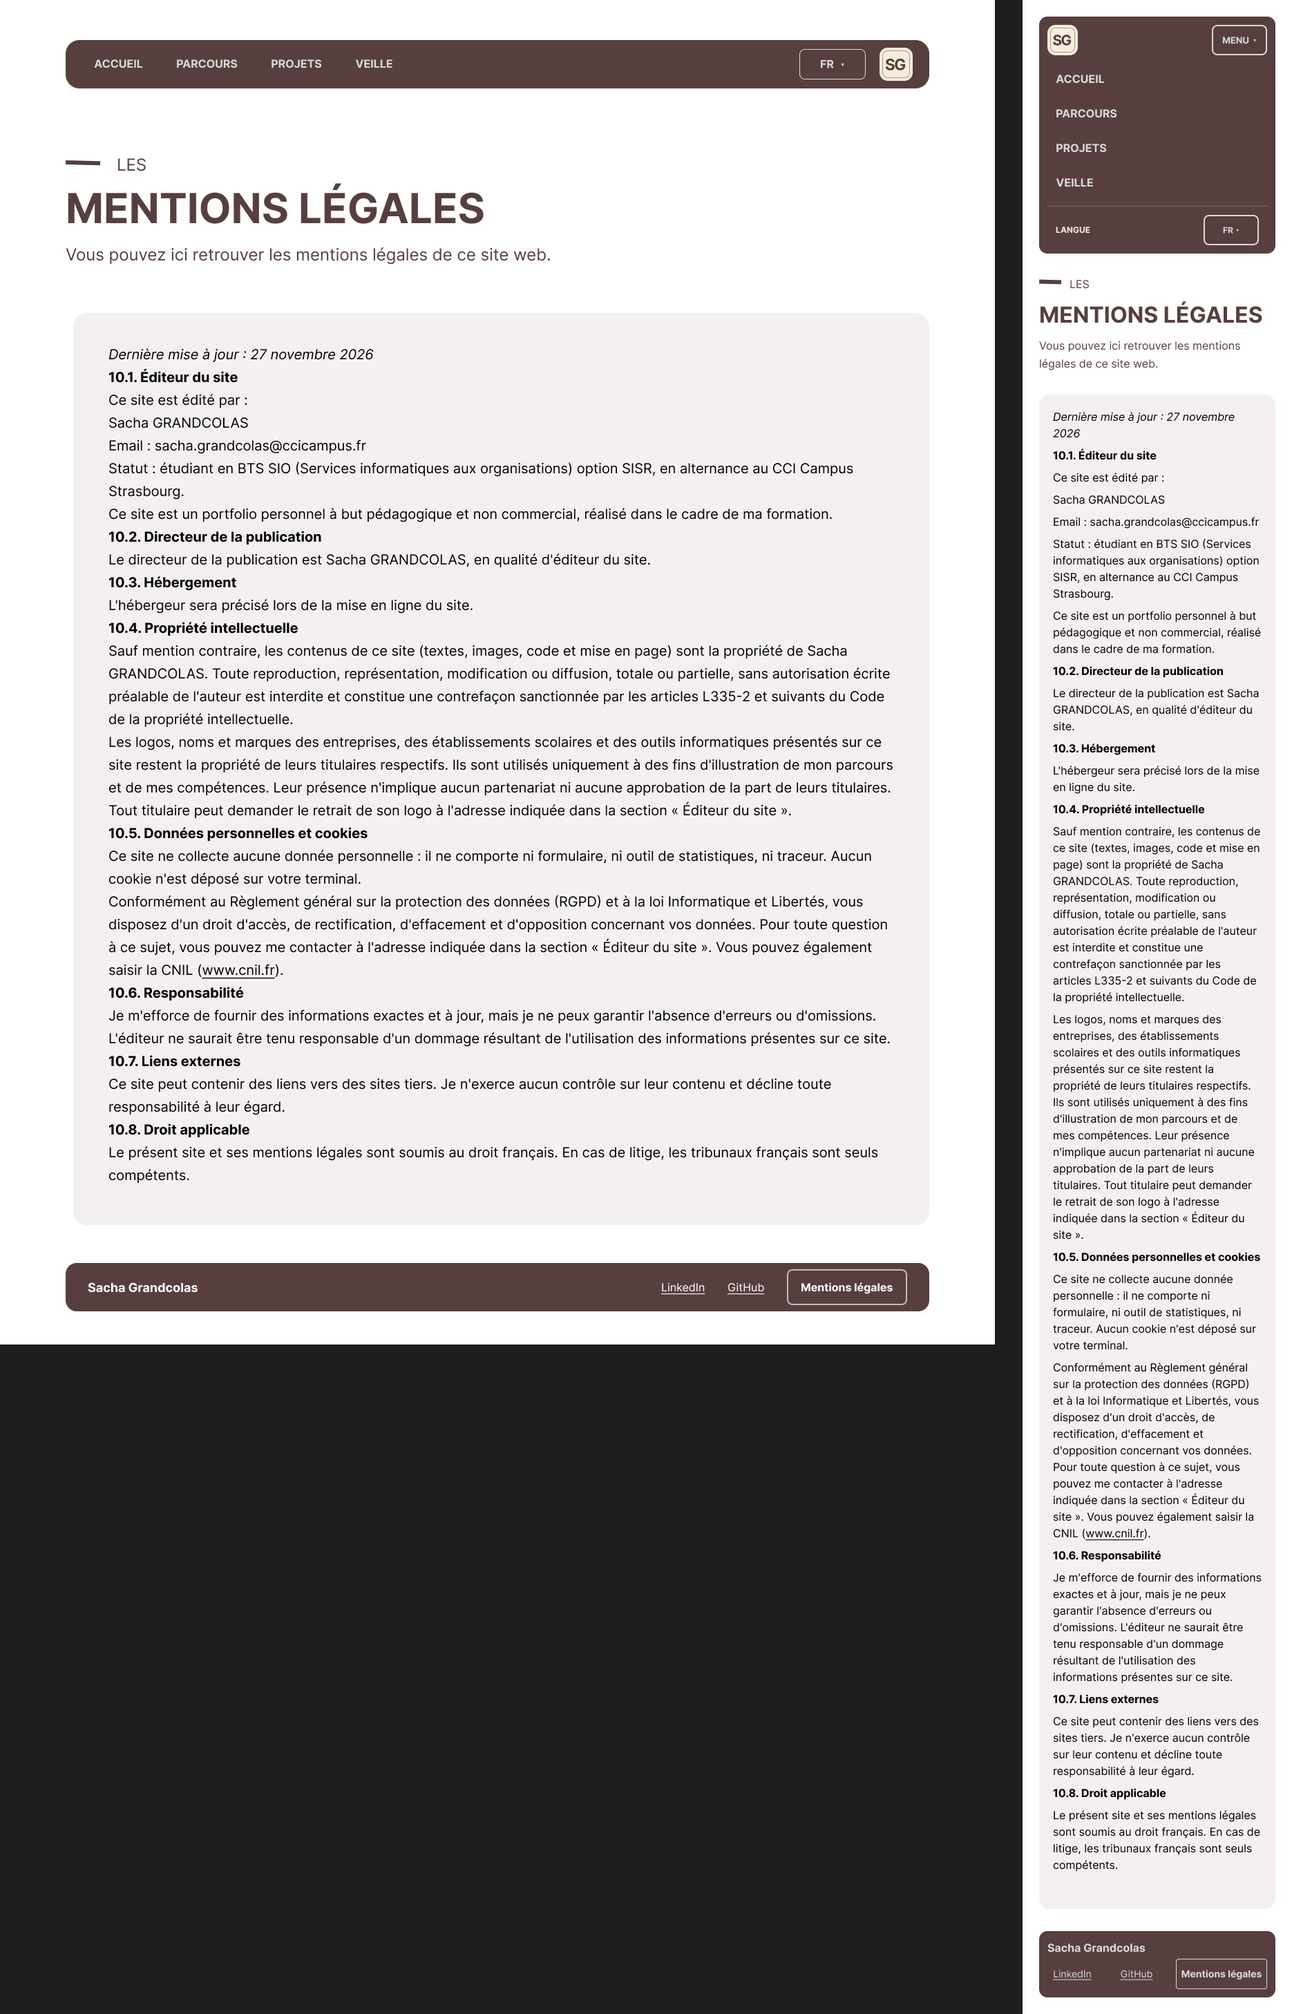
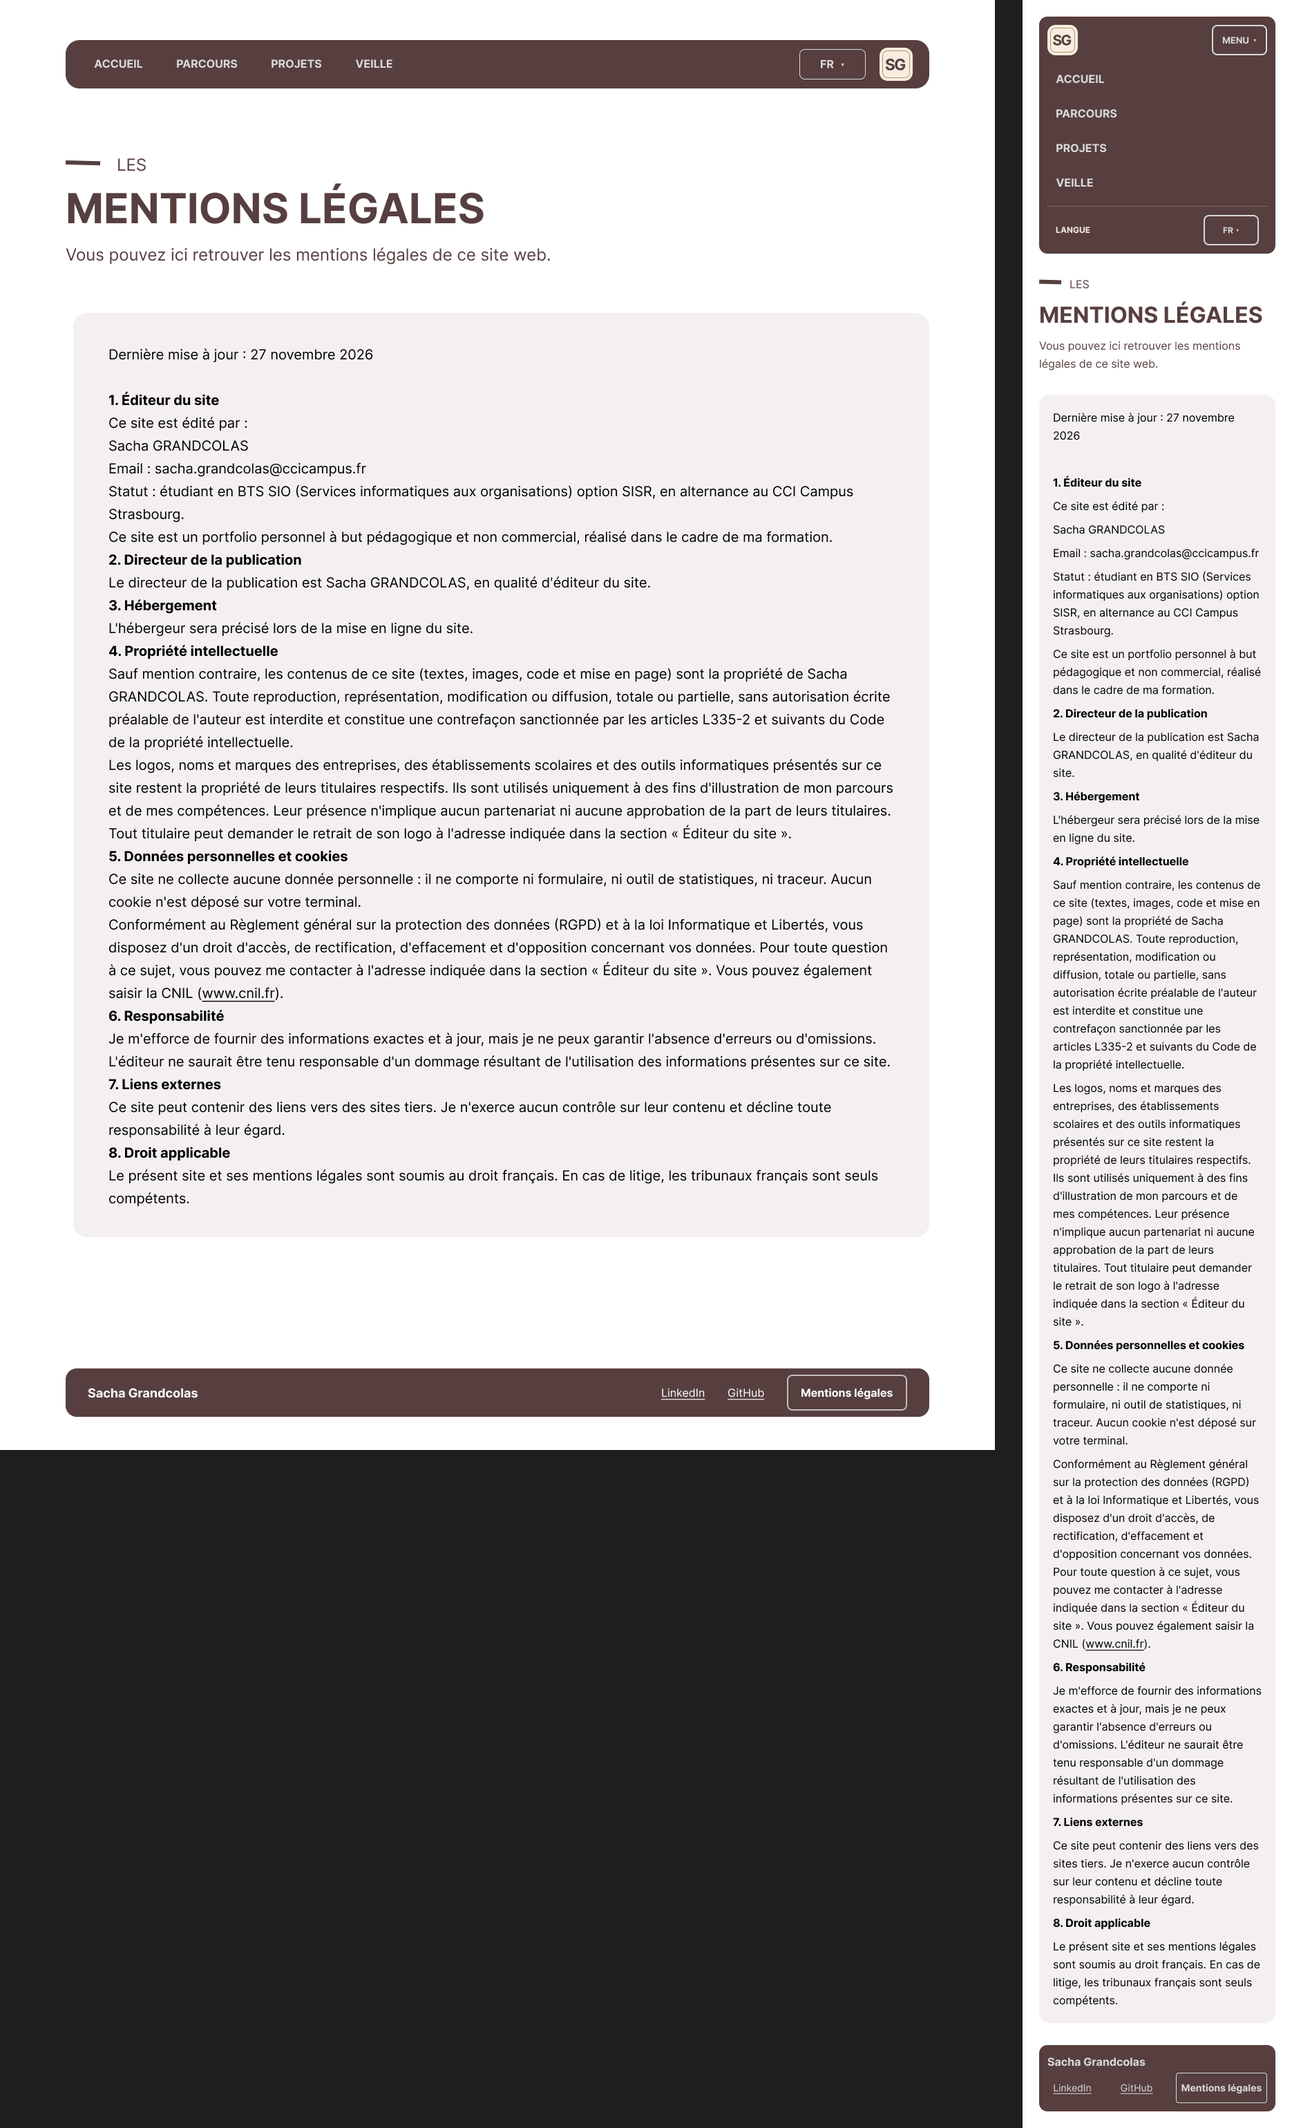
Dernier commit, modification de la numérotation des articles des mentions légales, changement d'une image dans la charte, finalisation des documents et corrections d'erreurs

diff --git a/documentation/charte.md b/documentation/charte.md
@@ -11,9 +11,13 @@ footer: ${title} - ${author} - Page ${pageNo} / ${totalPages}
 
 **Date de création** : 27/10/2026 - S.GRANDCOLAS
 **Date de modification** : 27/11/2026 - S.GRANDCOLAS
+**Version** : 1.0
+
 **Sommaire :**
 
 > [TOC]
+
+<div style="page-break-after:always"></div>
 
 <div style="page-break-after:always"></div>
 
@@ -23,11 +27,15 @@ Ce portfolio est réalisé dans le cadre de l'atelier de professionnalisation 1 
 
 
 
+<div style="page-break-after:always"></div>
+
 ## 2. Identité visuelle
 
 J'ai choisi un design épuré avec des couleurs sobres, notamment le brun, le blanc et le gris clair. Le brun sert de couleur principale, tandis que le blanc et le gris clair permettent d'aérer les pages et de séparer les différents contenus. Les titres sont mis en évidence en gras et en majuscules pour faciliter la lecture. La même présentation est reprise sur toutes les pages afin de garder un site cohérent.
 
 
+
+<div style="page-break-after:always"></div>
 
 ## 3. Éléments graphiques
 
@@ -49,8 +57,6 @@ Lorsque plusieurs cases sont regroupées dans un même bloc, comme sur la page P
 
 Les images qui conservent un fond sont affichées avec des coins arrondis de 20 px tandis que les autres images sont affichées sans fond.
 
-La couleur crème #F6EDE0 est utilisée pour le monogramme, le libellé « Langue » et la sélection de la langue.
-
 
 
 Les contrastes entre les textes et les fonds respectent le minimum d'accessibilité de 4,5:1.
@@ -67,7 +73,7 @@ Les contrastes entre les textes et les fonds respectent le minimum d'accessibili
 
 ### 3.2. Typographie
 
-J'utilise la typographie Inter. J'alterne entre l'épaisseur « Bold » pour les titres et les éléments importants et « Regular » pour les paragraphes et les textes secondaires. Les titres sont affichés en gras et en majuscules afin de les faire ressortir.
+J'utilise la typographie Inter, j'alterne entre l'épaisseur « Bold » pour les titres et les éléments importants et « Regular » pour les paragraphes et les textes secondaires. Les titres sont affichés en gras et en majuscules afin de les faire ressortir.
 
 | Élément             | Épaisseur | Taille ordinateur | Taille mobile |
 | ------------------- | --------- | ----------------- | ------------- |
@@ -92,6 +98,7 @@ J'utilise principalement des logos pour illustrer certaines informations, notamm
 | Pied de page                | Rectangulaire                          | 20 px          | Aucune  |
 | Bouton « Mentions légales » | Rectangulaire                          | 8 px           | 2 px    |
 | Bouton « Voir plus »        | Rectangulaire                          | 8 px           | 2 px    |
+| Bouton "Menu"               | Rectangulaire                          | 8 px           | 2 px    |
 | Images avec fond            | Rectangulaire                          | 20 px          | Aucune  |
 
 Sur ordinateur, les liens de navigation sont disposés horizontalement. Sur mobile, ils sont regroupés dans un menu déroulant accessible avec le bouton « Menu ».
@@ -100,24 +107,25 @@ Chaque image possède un texte alternatif.
 
 **Logo du portfolio**
 
-Le logo du portfolio reprend mes initiales « SG ». Il est affiché dans la barre de navigation et permet d'identifier mon site.
+Le logo du portfolio reprend mes initiales « SG », il est affiché dans la barre de navigation et il reprend les couleurs du site web.
 
 <img src="medias/logo.png" alt="Logo du portfolio" title="Logo du portfolio" width="150"/>
 
 **Logos utilisés**
 
-Ces logos illustrent mes compétences et mon parcours. Ils permettent d'identifier rapidement les outils informatiques et les établissements présentés.
+Ces logos illustrent mes compétences et mon parcours, ils permettent d'identifier rapidement les outils informatiques et les établissements présentés.
 
-<img src="medias/ubuntu-logo.png" alt="Logo Ubuntu" title="Ubuntu" width="150"/>
-<img src="medias/wireshark-logo.png" alt="Logo Wireshark" title="Wireshark" width="80"/>
-<img src="medias/HTML-CSS-logo.png" alt="Logos HTML et CSS" title="HTML et CSS" width="150"/>
-<img src="medias/cci.png" alt="Logo du CCI Campus" title="CCI Campus" width="150"/>
+<img src="medias/ubuntu-logo.png" alt="Logo Ubuntu" title="Ubuntu" width="100"/> <img src="medias/wireshark-logo.png" alt="Logo Wireshark" title="Wireshark" width="100"/> <img src="medias/HTML-CSS-logo.png" alt="Logos HTML et CSS" title="HTML et CSS" width="100"/> <img src="medias/cci.png" alt="Logo du CCI Campus" title="CCI Campus" width="100"/> <img src="medias/mangin.png" alt="Logo du lycée Mangin" title="Lycée Mangin" width="100"/> <img src="medias/erckmann.png" alt="Logo du collège Erckmann-Chatrian" title="Collège Erckmann-Chatrian" width="100"/> <img src="medias/lingenheld.png" alt="Logo de l'entreprise Lingenheld" title="Lingenheld" width="100"/> <img src="medias/ferco.png" alt="Logo de l'entreprise Ferco" title="Ferco" width="100"/> <img src="medias/fm.png" alt="Logo de l'entreprise FM Logistic" title="FM Logistic" width="100"/>
 
 **Boutons**
 
-Les boutons ont des coins arrondis et un style commun. Ils permettent de naviguer dans le site, de changer de langue, d'afficher le détail d'un projet et d'accéder aux mentions légales.
+Les boutons ont des coins arrondis et un style commun, ils permettent de naviguer dans le site, de changer de langue, d'afficher le détail d'un projet et d'accéder aux mentions légales.
 
 <img src="medias/boutons.png" alt="Boutons du site" title="Boutons" width="400"/>
+
+
+
+<div style="page-break-after:always"></div>
 
 ## 4. Maquettes responsive
 
@@ -145,14 +153,16 @@ Les maquettes ont été réalisées avec Figma : https://www.figma.com/design/AX
 <img src="medias/atelier-pro-4.png" alt="Maquette de la page Projet AP4" title="Projet AP4" width="500"/>
 
 ### 4.8. Veille technologique
-<img src="medias/veille.png" alt="Maquette de la page Veille technologique" title="Veille technologique" width="500"/>
+<img src="medias/veille.png" alt="Maquette de la page Veille technologique" title="Veille technologique" width="420"/>
 
 ### 4.9. Mentions légales
 <img src="medias/mentions-legales.png" alt="Maquette de la page Mentions légales" title="Mentions légales" width="500"/>
 
+<div style="page-break-after:always"></div>
+
 ## 5. Navigation du site
 
-Le menu de navigation est présent sur toutes les pages du site. Il permet d'accéder aux pages Accueil, Parcours, Projets et Veille technologique. Un sélecteur permet de choisir entre la version française et la version anglaise du site.
+Le menu de navigation est présent sur toutes les pages du site, il permet d'accéder aux pages Accueil, Parcours, Projets et Veille technologique, un sélecteur permet également de choisir entre la version française et la version anglaise du site.
 
 Le pied de page contient mon nom ainsi que des liens vers LinkedIn, GitHub et les mentions légales.
 

diff --git a/documentation/technique.md b/documentation/technique.md
@@ -12,6 +12,8 @@ footer: ${title} - ${author} - Page ${pageNo} / ${totalPages}
 
 **Date de création** : 16/10/2026 - S.GRANDCOLAS
 **Date de modification** : 27/11/2026 - S.GRANDCOLAS
+**Version** : 1.0
+
 **Sommaire :**
 
 > [TOC]
@@ -20,15 +22,15 @@ footer: ${title} - ${author} - Page ${pageNo} / ${totalPages}
 
 ## 1. Les outils
 
-Afin de pouvoir travailler sur ce projet j'ai utilisé plusieurs outils : 
+Afin de pouvoir travailler sur ce projet, j'ai utilisé plusieurs outils : 
 
-**WSL** : C'est une sorte de "machine virtuelle" linux connecté à Windows et qui a pour but de pouvoir utiliser l'environnement linux directement via Windows, j'utilise Ubuntu 26.04 LTS comme OS, WSL est en version 3.0.3
+**WSL** : C'est une sorte de "machine virtuelle" Linux connectée à Windows et qui a pour but de pouvoir utiliser l'environnement Linux directement via Windows, j'utilise Ubuntu 26.04 LTS comme OS, WSL est en version 3.0.3
 
 **Windows** : C'est le système d'exploitation principal que j'utilise, plus exactement j'utilise la version 26H2
 
 **Visual Studio Code** : C'est l'éditeur de code que j'utilise afin de pouvoir coder, la version est en 1.146.0
 
-**Typora** : C'est l'éditeur Markdown qui me permet de rédiger toute la documentation.
+**Typora** : C'est l'éditeur Markdown qui me permet de rédiger toute la documentation, celui-ci est en version 1.14.15
 
 **Apache** : C'est un logiciel qui sert à héberger et diffuser des sites web, j'utilise la version 2.4.66 de Apache2, je l'ai installé dans WSL.
 
@@ -40,15 +42,19 @@ Afin de pouvoir travailler sur ce projet j'ai utilisé plusieurs outils :
 
 **Figma** : C'est un outil qui permet de structurer des pages web en faisant des maquettes, je l'utilise pour créer les différentes pages de mon portfolio, j'utilise la version web.
 
-**SSH** : C'est un protocole réseau sécurisé qui permet de se connecter à distance à un appareil (ordinateur ou serveur) et d'y exécuter des commandes via une connexion chiffrée, j'utilise ce protocole pour envoyer les commit sur github.
+**SSH** : C'est un protocole réseau sécurisé qui permet de se connecter à distance à un appareil (ordinateur ou serveur) et d'y exécuter des commandes via une connexion chiffrée, j'utilise ce protocole pour envoyer les commits sur GitHub.
 
 
+
+**Justification des choix** : WSL est plus léger qu'une machine virtuelle et intégré à Windows. Visual Studio Code est gratuit et compatible avec WSL. Typora permet de voir directement le rendu Markdown et de l'exporter en PDF. Apache est gratuit et connu. Brave est un navigateur basé sur Chromium, il est donc compatible avec la majorité des sites web. Git et GitHub conservent l'historique et une copie en ligne du projet. Figma permet de créer les maquettes dans le navigateur. SSH assure une connexion chiffrée à GitHub.
+
+<div style="page-break-after:always"></div>
 
 ## 2. Les langages et technologies
 
-Afin de développer les différentes page du portfolio je vais devoir utiliser plusieurs langages, tout d'abord le HTML, c'est ce qui qui permet de structurer le contenu des pages web, j'utilise HTML5. Une fois la structure des pages fait, il faut mettre en forme celles-ci, c'est pourquoi j'utilise CSS, plus exactement CSS3, je l'utilise pour gérer les couleurs, les polices, la taille des images ainsi que la disposition des différents éléments. Enfin, pour ajouter des animations et rajouter de l'interactivité le JavaScript est très utile.
+Afin de développer les différentes pages du portfolio je vais devoir utiliser plusieurs langages, tout d'abord le HTML, c'est ce qui permet de structurer le contenu des pages web, j'utilise HTML5. Une fois la structure des pages faite, il faut mettre en forme celles-ci, c'est pourquoi j'utilise CSS, plus exactement CSS3, je l'utilise pour gérer les couleurs, les polices, la taille des images ainsi que la disposition des différents éléments. Enfin, pour ajouter des animations et rajouter de l'interactivité le JavaScript est très utile.
 
-
+<div style="page-break-after:always"></div>
 
 ## 3. Architecture de l'environnement
 
@@ -96,7 +102,7 @@ Cette arborescence se trouve dans WSL à l'emplacement suivant : /var/www/html/p
 
 ### 3.3. Gestion et suivi du projet
 
-Pour suivre l'évolution du portfolio j'utilise Git et GitHub
+Pour suivre l'évolution du portfolio j'utilise Git et GitHub.
 
 Git me permet d'enregistrer les différentes modifications apportées au projet grâce aux commits. GitHub me permet de conserver une copie du projet en ligne et de retrouver mes modifications.
 
@@ -106,6 +112,10 @@ Voici les commandes utilisées pour le suivi de version :
 git add .                           # sélectionne les fichiers modifiés
 git commit -m "Message"				# enregistre les modifications avec un message
 git push                            # envoie les commits sur GitHub
+```
+
+```bash
+git clone git@github.com:SachaGrdc/CCI-SIO26-Portfolio-GRANDCOLASSacha.git   # récupère le projet depuis GitHub
 ```
 
 
@@ -121,18 +131,18 @@ ssh-keygen -t ed25519                # ajouter ensuite la clé publique sur GitH
 ssh -T git@github.com                # test de la connexion
 ```
 
+Il n'est pas nécessaire d'installer Git car il est installé par défaut sur Ubuntu 26.04.
+
 
 
 ### 3.5. Droits d'accès
 
 ```bash
-sudo chown -R root:adm /var/www
-sudo chmod 2775 /var/www
-sudo chmod 2775 /var/www/html
-sudo chmod 664 /var/www/html/*
+sudo chown -R root:adm /var/www       # propriétaire root, groupe adm
+sudo chmod 2775 /var/www              # écriture pour root et adm, groupe hérité
+sudo chmod 2775 /var/www/html         # mêmes droits pour le dossier web
+sudo chmod 664 /var/www/html/*        # écriture pour root et adm, lecture pour les autres
 ```
-
-Les fichiers dans `/var/www` appartiennent à `root` et au groupe `adm`, dont mon utilisateur fait partie. Les dossiers `/var/www` et `/var/www/html` sont modifiables par `root` et le groupe `adm`, tandis qu'Apache peut seulement les lire. Le 2 de `2775` permet aux nouveaux fichiers de garder le groupe `adm`.
 
 
 

diff --git a/documentation/contenu.md b/documentation/contenu.md
@@ -9,6 +9,8 @@ footer: ${title} - ${author} - Page ${pageNo} / ${totalPages}
 # Contenu
 **Date de création** : 16/10/2026 - S.GRANDCOLAS
 **Date de modification** : 27/11/2026 - S.GRANDCOLAS
+**Version** : 1.0
+
 **Sommaire :**
 
 > [TOC]
@@ -188,11 +190,11 @@ Vous pouvez ici retrouver mon atelier de professionnalisation numéro 3.
 
 Ce projet est à venir.
 
-Illustration : à venir
-Compétences du référentiel mobilisées : à venir
-Documents de présentation : à venir
-Documentation technique : à venir
-Documentation utilisateur : à venir
+- Illustration : à venir
+- Compétences du référentiel mobilisées : à venir
+- Documents de présentation : à venir
+- Documentation technique : à venir
+- Documentation utilisateur : à venir
 
 <div style="page-break-after:always"></div>
 
@@ -206,11 +208,11 @@ Vous pouvez ici retrouver mon atelier de professionnalisation numéro 4.
 
 Ce projet est à venir.
 
-Illustration : à venir
-Compétences du référentiel mobilisées : à venir
-Documents de présentation : à venir
-Documentation technique : à venir
-Documentation utilisateur : à venir
+- Illustration : à venir
+- Compétences du référentiel mobilisées : à venir
+- Documents de présentation : à venir
+- Documentation technique : à venir
+- Documentation utilisateur : à venir
 
 <div style="page-break-after:always"></div>
 
@@ -282,7 +284,7 @@ Vous pouvez ici retrouver les mentions légales de ce site web.
 
 *Dernière mise à jour : 27 novembre 2026*
 
-### 10.1. Éditeur du site
+### 1. Éditeur du site
 
 Ce site est édité par :
 
@@ -294,36 +296,34 @@ Statut : étudiant en BTS SIO (Services informatiques aux organisations) option 
 
 Ce site est un portfolio personnel à but pédagogique et non commercial, réalisé dans le cadre de ma formation.
 
-### 10.2. Directeur de la publication
+### 2. Directeur de la publication
 
 Le directeur de la publication est Sacha GRANDCOLAS, en qualité d'éditeur du site.
 
-### 10.3. Hébergement
+### 3. Hébergement
 
 L'hébergeur sera précisé lors de la mise en ligne du site.
 
-### 10.4. Propriété intellectuelle
+### 4. Propriété intellectuelle
 
 Sauf mention contraire, les contenus de ce site (textes, images, code et mise en page) sont la propriété de Sacha GRANDCOLAS. Toute reproduction, représentation, modification ou diffusion, totale ou partielle, sans autorisation écrite préalable de l'auteur est interdite et constitue une contrefaçon sanctionnée par les articles L335-2 et suivants du Code de la propriété intellectuelle.
 
 Les logos, noms et marques des entreprises, des établissements scolaires et des outils informatiques présentés sur ce site restent la propriété de leurs titulaires respectifs. Ils sont utilisés uniquement à des fins d'illustration de mon parcours et de mes compétences. Leur présence n'implique aucun partenariat ni aucune approbation de la part de leurs titulaires. Tout titulaire peut demander le retrait de son logo à l'adresse indiquée dans la section « Éditeur du site ».
 
-### 10.5. Données personnelles et cookies
+### 5. Données personnelles et cookies
 
 Ce site ne collecte aucune donnée personnelle : il ne comporte ni formulaire, ni outil de statistiques, ni traceur. Aucun cookie n'est déposé sur votre terminal.
 
 Conformément au Règlement général sur la protection des données (RGPD) et à la loi Informatique et Libertés, vous disposez d'un droit d'accès, de rectification, d'effacement et d'opposition concernant vos données. Pour toute question à ce sujet, vous pouvez me contacter à l'adresse indiquée dans la section « Éditeur du site ». Vous pouvez également saisir la CNIL ([www.cnil.fr](https://www.cnil.fr)).
 
-### 10.6. Responsabilité
+### 6. Responsabilité
 
 Je m'efforce de fournir des informations exactes et à jour, mais je ne peux garantir l'absence d'erreurs ou d'omissions. L'éditeur ne saurait être tenu responsable d'un dommage résultant de l'utilisation des informations présentes sur ce site.
 
-### 10.7. Liens externes
+### 7. Liens externes
 
 Ce site peut contenir des liens vers des sites tiers. Je n'exerce aucun contrôle sur leur contenu et décline toute responsabilité à leur égard.
 
-### 10.8. Droit applicable
+### 8. Droit applicable
 
 Le présent site et ses mentions légales sont soumis au droit français. En cas de litige, les tribunaux français sont seuls compétents.
-
-<div style="page-break-after:always"></div>
